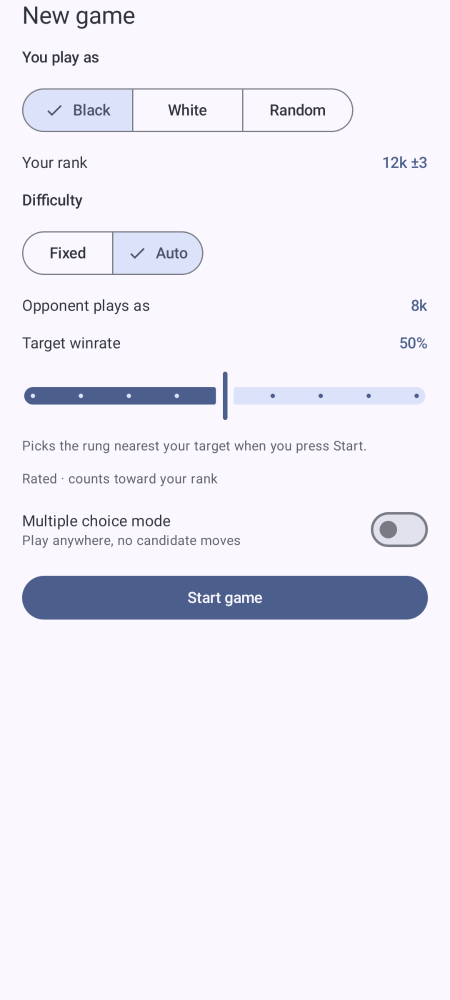
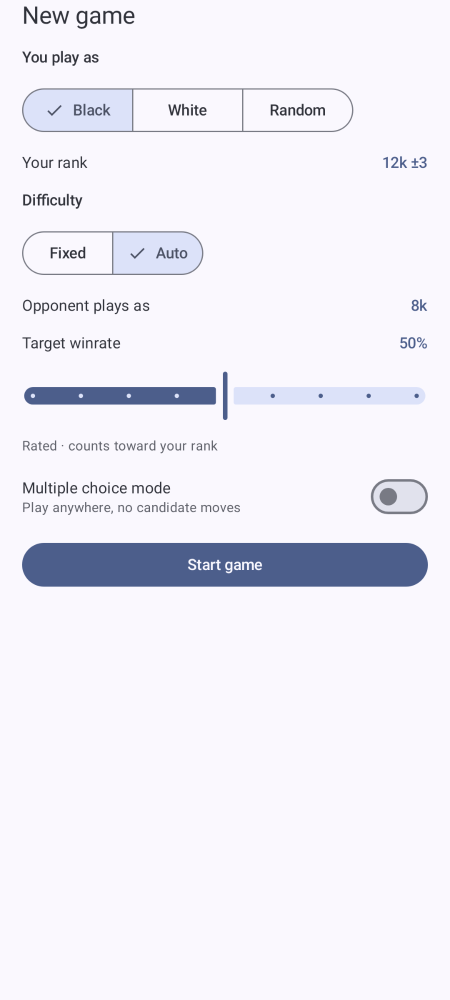
Drop stale automatch hint (preview already shows the pick)

Changed region(s): [[0.0311, 0.434, 0.9644, 0.62]]

diff --git a/android/app/src/main/java/com/gotrainer/nine/ui/GameScreen.kt b/android/app/src/main/java/com/gotrainer/nine/ui/GameScreen.kt
@@ -455,11 +455,6 @@ internal fun OpponentSheetContent(
                 valueRange = 10f..90f,
                 steps = 7,
             )
-            Text(
-                "Picks the rung nearest your target when you press Start.",
-                style = MaterialTheme.typography.bodySmall,
-                color = MaterialTheme.colorScheme.onSurfaceVariant,
-            )
         }
         // Suggestions games never rate (free-choice only); say so plainly.
         val ratedGame = !draftMultipleChoice || draftBest + draftWorst == 0
